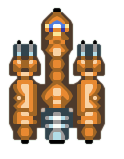
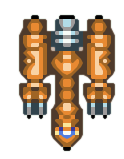
[BigUpdate]Added Upgrades UI/Fixed several bugs/issues
-Added UI for upgrades
-Bullets coming from enemies have now correct emission angle
-Enemies now fly while looking at your ship!
-Corrected ship movement, now it moves much faster and it’s smoother
-Corrected fuel emission for each of the enemy ships
-Corrected enemy ships orientation(edited PNGs)

diff --git a/SpaceInvaders/MyScene.m b/SpaceInvaders/MyScene.m
@@ -36,7 +36,7 @@
         
         
         upgradeCenter = [[UpgradeCenter alloc] initWithScene:self];
-        
+        upgradeCenter.playerBalance = 10000;
         //Added Background Particle Node
          [self setupBackground];
  
@@ -74,12 +74,46 @@
     int HUDWidth = self.size.width;
     int HUDHeight = 35;
     
-    SKSpriteNode *hudBackground = [SKSpriteNode spriteNodeWithColor:[SKColor colorWithRed:0.8 green:0.8 blue:0.8 alpha:0.30]
-                                                               size:CGSizeMake(HUDWidth, HUDHeight)];
+    SKSpriteNode *hudBackground = [SKSpriteNode spriteNodeWithImageNamed:@"Upgrade-HUD-bg.jpg"];
     hudBackground.position = CGPointMake(0, 0);
     hudBackground.anchorPoint = CGPointZero;
+    hudBackground.size = CGSizeMake(HUDWidth, HUDHeight);
+    
+    SKSpriteNode *freezeSprite = [SKSpriteNode spriteNodeWithImageNamed:@"freeze-sprite.png"];
+    freezeSprite.position = CGPointMake(4, 7);
+    freezeSprite.anchorPoint = CGPointZero;
+    freezeSprite.size = CGSizeMake(65/2, 45/2);
+    
+    SKSpriteNode *automaticSprite = [SKSpriteNode spriteNodeWithImageNamed:@"automatic-sprite.png"];
+    automaticSprite.position = CGPointMake(4+4+4+(65/2), 7);
+    automaticSprite.anchorPoint = CGPointZero;
+    automaticSprite.size = CGSizeMake(65/2, 45/2);
+    
+    SKSpriteNode *sideBulletsSprite = [SKSpriteNode spriteNodeWithImageNamed:@"sidebullets-sprite.png"];
+    sideBulletsSprite.position = CGPointMake(4+2*4+2*4+(2*65/2), 7);
+    sideBulletsSprite.anchorPoint = CGPointZero;
+    sideBulletsSprite.size = CGSizeMake(65/2, 45/2);
+    
+    SKSpriteNode *explodeAllSprite = [SKSpriteNode spriteNodeWithImageNamed:@"explodeall-sprite.png"];
+    explodeAllSprite.position = CGPointMake(4+3*4+3*4+(3*65/2), 7);
+    explodeAllSprite.anchorPoint = CGPointZero;
+    explodeAllSprite.size = CGSizeMake(65/2, 45/2);
+    
+    //_layerUpgradeNode.userInteractionEnabled = YES;
+    freezeSprite.name = @"Freeze";
+    //freezeSprite.userInteractionEnabled = YES;
+    sideBulletsSprite.name=@"SideBullets";
+    //sideBulletsSprite.userInteractionEnabled = YES;
+    automaticSprite.name = @"AutomaticShooting";
+    //automaticSprite.userInteractionEnabled = YES;
+    explodeAllSprite.name = @"ExplodeAll";
+    //explodeAllSprite.userInteractionEnabled = YES;
     
     [_layerUpgradeNode addChild:hudBackground];
+    [_layerUpgradeNode addChild:freezeSprite];
+    [_layerUpgradeNode addChild:automaticSprite];
+    [_layerUpgradeNode addChild:explodeAllSprite];
+    [_layerUpgradeNode addChild:sideBulletsSprite];
     
     
     
@@ -268,9 +302,32 @@
 -(void)touchesBegan:(NSSet *)touches withEvent:(UIEvent *)event
 {
     
+    UITouch *touch = [touches anyObject];
+    CGPoint location = [touch locationInNode:self];
+    SKNode *node = [self nodeAtPoint:location];
     
+    
+    if ([node.name isEqualToString:@"Freeze"]) {
+        [upgradeCenter purchaseUpgrade:UpgradeFreeze];
+        [upgradeCenter activateUpgrade:UpgradeFreeze];
+        
+    }
+    else if([node.name isEqualToString:@"SideBullets"])
+    {
+        [upgradeCenter purchaseUpgrade:UpgradeSideBullets];
+        [upgradeCenter activateUpgrade:UpgradeSideBullets];
+    }
+    else if([node.name isEqualToString:@"AutomaticShooting"])
+    {
+        [upgradeCenter purchaseUpgrade:UpgradeAutomaticShooting];
+        [upgradeCenter activateUpgrade:UpgradeAutomaticShooting];
+    }
+    else if([node.name isEqualToString:@"ExplodeAll"])
+    {
+        [upgradeCenter purchaseUpgrade:UpgradeDestroyAllEnemys];
+        [upgradeCenter activateUpgrade:UpgradeDestroyAllEnemys];
+    }
    
-
     
     
 }
@@ -291,16 +348,12 @@
     
     CGPoint location = [touch locationInNode:self];
     location.y+=30;
-    [_spaceShip runAction:[SKAction moveTo:location duration:1]];
+    [_spaceShip runAction:[SKAction moveTo:location duration:0.1]];
 }
 
 -(void)handleSingleTap:(UIGestureRecognizer*)ges
 {
-    upgradeCenter.playerBalance = 1000;
     
-    [upgradeCenter purchaseUpgrade:UpgradeSideBullets];
-    
-    [upgradeCenter activateUpgrade:UpgradeSideBullets];
    
     if(![upgradeCenter isAutomaticShootingActivated])
         [self shootBullet];
@@ -492,11 +545,22 @@
 
 -(void)rotateShipsThatNeedRotation:(NSTimeInterval)currentTime
 {
-    NSMutableArray *allEnemies=[self getEnemys:@"EnemyXTroyer"];
+    NSArray *allEnemies=[self.layerEnemiesNode children];
     if ([allEnemies count] > 0)
     {
-        int allInvadersIndex = arc4random()%([allEnemies count]);
-        EnemyShip* enemy = [allEnemies objectAtIndex:allInvadersIndex];
+        SpaceShip* ship = [[_layerPlayerNode children] objectAtIndex:0];
+        for(EnemyShip* enemyShip in allEnemies)
+        {
+            if(![enemyShip isKindOfClass:[EnemyShip class]])
+                continue;
+            float angle = atan((enemyShip.position.y - ship.position.y)/((enemyShip.position.x - ship.position.x)*1.0));
+            
+            if(enemyShip.position.x > ship.position.x)
+            enemyShip.zRotation = angle+3*M_PI/2.0;
+            else enemyShip.zRotation = angle+M_PI/2.0;
+        }
+        
+        //[enemy runAction:[SKAction rotateByAngle:(CGFloat) duration:<#(NSTimeInterval)#>]]
         //TODO rotate
     }
 }
@@ -566,8 +630,16 @@
 
 -(void)fireBullet:(SKNode*)bullet toDestination:(CGPoint)destination withDuration:(NSTimeInterval)duration soundFileName:(NSString*)soundFileName
 {
+    float angle = atan((destination.y-bullet.position.y)/(1.0*(destination.x-bullet.position.x)));
+   
+    if(bullet.position.x<destination.x)
+        angle = angle+M_PI;
+    
+    ((EnemyShipBullet*)bullet).emitter.emissionAngle = angle;
     SKAction* bulletAction = [SKAction sequence:@[[SKAction moveTo:destination duration:duration],
                                                   [SKAction removeFromParent]]];
+    
+    
     //SKAction* soundAction  = [SKAction playSoundFileNamed:soundFileName waitForCompletion:YES];
     [bullet runAction:[SKAction group:@[bulletAction]]];//,soundAction
     [self addChild:bullet];

diff --git a/SpaceInvaders/EnemyFactory.m b/SpaceInvaders/EnemyFactory.m
@@ -267,7 +267,7 @@
 {
     CGMutablePathRef thePath =CGPathCreateMutable();
     CGPathAddArc(thePath, NULL, 200.f, yPosition, 200.f, M_PI, 0.f, NO);
-    SKAction *moveAction = [SKAction followPath:thePath asOffset:YES orientToPath:YES duration:5];
+    SKAction *moveAction = [SKAction followPath:thePath asOffset:YES orientToPath:NO duration:5];
     SKAction *removeEnemy= [SKAction removeFromParent];
     SKAction *enemySequence = [SKAction sequence:@[moveAction, removeEnemy]];
     return enemySequence;
@@ -277,7 +277,7 @@
 {
     CGMutablePathRef thePath =CGPathCreateMutable();
     CGPathAddArc(thePath, NULL, 200.f, yPosition, 200.f, 0.f, M_PI, YES);//TODO these numbers are probably not the best suitable
-    SKAction *moveAction = [SKAction followPath:thePath asOffset:YES orientToPath:YES duration:5];
+    SKAction *moveAction = [SKAction followPath:thePath asOffset:YES orientToPath:NO duration:5];
     SKAction *removeEnemy= [SKAction removeFromParent];
     SKAction *enemySequence = [SKAction sequence:@[moveAction, removeEnemy]];
     return enemySequence;

diff --git a/UpgradeCenter.m b/UpgradeCenter.m
@@ -157,6 +157,17 @@
     
     freezeFired = YES;
     _scene.layerEnemiesNode.speed = 0.01;
+    CGSize size = CGSizeMake(_scene.size.width*2, _scene.size.height*2);
+    SKSpriteNode* blueSprite = [SKSpriteNode spriteNodeWithColor:[UIColor colorWithRed:0 green:177 blue:228 alpha:1] size:size];
+    blueSprite.alpha = 0;
+    blueSprite.position = CGPointMake(0, 0);
+    [_scene addChild:blueSprite];
+    SKAction* flash1 = [SKAction fadeAlphaTo:0.1 duration:0.4];
+    SKAction* flash2 = [SKAction fadeAlphaTo:0 duration:0.7];
+    SKAction* removeParent = [SKAction removeFromParent];
+    NSArray* sequence= [NSArray arrayWithObjects:flash1,flash2,removeParent, nil];
+    [blueSprite runAction:[SKAction sequence:sequence]];
+    
     [NSTimer scheduledTimerWithTimeInterval:5.0 target:self selector:@selector(freezeFinished:) userInfo:nil repeats:NO];
     
 }

diff --git a/SpaceInvaders/EnemyShipBullet.m b/SpaceInvaders/EnemyShipBullet.m
@@ -13,15 +13,17 @@
     
     if(self = [super initWithPosition:position]) {
         
-        SKEmitterNode* bulletEmitter = [GameObject newBulletEmitter];
-        bulletEmitter.position = CGPointMake(self.size.width/2, self.size.height);
+        _emitter = [GameObject newBulletEmitter];
+        _emitter.position = CGPointMake(self.size.width/2, self.size.height);
+        _emitter.particleColor = [UIColor redColor];
+        _emitter.particleColorRedRange = 10;
         
         //Name the alien and reduce it's size to 70%--it looks about right.
         self.name = @"EnemyShipBullet";
         [self setSize:CGSizeMake(10, 50)];
         [self setColor:[UIColor clearColor]];
         [self setScale:0.25f];
-        [self addChild:bulletEmitter];
+        [self addChild:_emitter];
         [self configureCollisionBody];
     }
     

diff --git a/SpaceInvaders/XCorner.m b/SpaceInvaders/XCorner.m
@@ -19,13 +19,10 @@
         
         SKEmitterNode* fuelLeft = [GameObject newFuelEmitter];
         fuelLeft.emissionAngle = 1.57;
-        fuelLeft.position = CGPointMake(self.size.width/2,self.size.height);
+        fuelLeft.position = CGPointMake((self.size.width/2)-20,self.size.height+12);
         [self addChild:fuelLeft];
         
-        SKEmitterNode* fuelRight = [GameObject newFuelEmitter];
-        fuelRight.emissionAngle = 1.57;
-        fuelRight.position = CGPointMake(self.size.width/2 - 40,self.size.height);
-        [self addChild:fuelRight];
+
         
         
         [self configureCollisionBody];

diff --git a/SpaceInvaders/XBooster.m b/SpaceInvaders/XBooster.m
@@ -20,13 +20,8 @@
         
         SKEmitterNode* fuelLeft = [GameObject newFuelEmitter];
         fuelLeft.emissionAngle = 1.57;
-        fuelLeft.position = CGPointMake(self.size.width/2,self.size.height);
+        fuelLeft.position = CGPointMake(self.size.width/2-5,self.size.height+15);
         [self addChild:fuelLeft];
-        
-        SKEmitterNode* fuelRight = [GameObject newFuelEmitter];
-        fuelRight.emissionAngle = 1.57;
-        fuelRight.position = CGPointMake(self.size.width/2 - 40,self.size.height);
-        [self addChild:fuelRight];
         
         
         [self configureCollisionBody];

diff --git a/SpaceInvaders/XTroyerDebris.m b/SpaceInvaders/XTroyerDebris.m
@@ -26,7 +26,6 @@
 {
     SKTexture *texture = nil;
     int randDebris = (arc4random()%2) +1;
-    NSLog(@"Rand debris:%d",randDebris);
     NSString* debrisImage = [NSString stringWithFormat:@"debrisPurple_%d",randDebris];
     texture = [SKTexture textureWithImageNamed:debrisImage]; //TODO TEAM RAVI
     texture.filteringMode = SKTextureFilteringNearest;

diff --git a/SpaceInvaders/EnemyShipBullet.h b/SpaceInvaders/EnemyShipBullet.h
@@ -10,4 +10,6 @@
 
 @interface EnemyShipBullet : GameObject
 
+@property SKEmitterNode* emitter;
+
 @end
